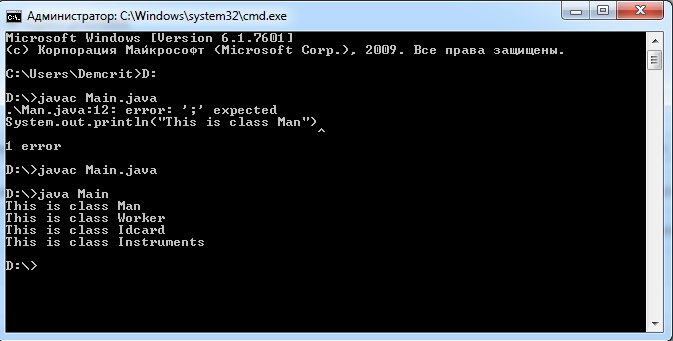
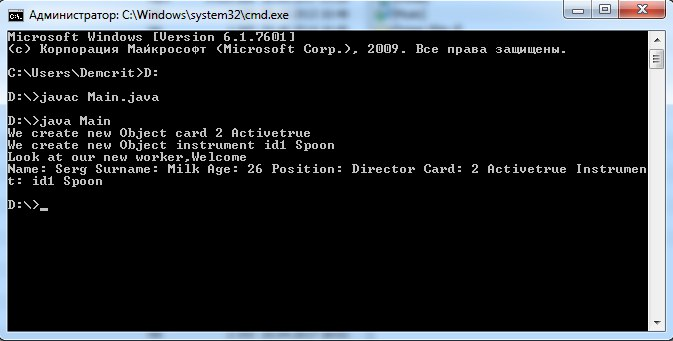
big changes

Changed region(s): [[0.0, 0.0, 1.0, 1.0]]

diff --git a/lection2/Classes/Worker.java b/lection2/Classes/Worker.java
@@ -5,8 +5,12 @@ String position;
 Idcard card;
 Instruments instrument;
 
-public Worker(){
-	System.out.println("This is class Worker");
+public Worker(String name,String surname,int age,String position,
+		Idcard card,Instruments instrument){
+	super(name,surname,age);
+	this.position = position;
+	this.card = card;
+	this.instrument=instrument; 
 	}
 
 public String getPosition() {
@@ -27,4 +31,11 @@ public Instruments getInstrument() {
 public void setInstrument(Instruments instrument) {
 	this.instrument = instrument;
 }
+
+@Override
+public String toString() {
+		return "Name: " + super.name + " Surname: " + super.surname +" Age: "+
+        super.age + " Position: " + this.position +" Card: " + this.card + " Instrument: " + this.instrument;
+}
+
 }

diff --git a/lection2/Classes/Man.java b/lection2/Classes/Man.java
@@ -2,14 +2,15 @@ import java.sql.Date;
 
 public class Man {
 
-private String name;
-private String surname;
-private Date birthdate;
+protected  String name;
+protected  String surname;
+protected  int age;
 
-
-public Man ()
+Man(String name,String surname,int age)
 {
-System.out.println("This is class Man");
+this.name= name;
+this.surname = surname;
+this.age = age;
 }
 
 public String getName(){
@@ -24,10 +25,10 @@ return this.surname;
 public void setsurname(String surname){
 this.surname = surname;
 }
-public Date getbirthdate(){
-return this.birthdate;
+public int getbirthdate(){
+return this.age;
 }
 public void setburthdate(Date birthdate){
-this.birthdate = birthdate;
+this.age = age;
 }
 }

diff --git a/lection2/Classes/Main.java b/lection2/Classes/Main.java
@@ -1,9 +1,13 @@
 public class Main {
 
 	public static void main(String[] args) {
-		Worker worker = new Worker();
-		Idcard idcard = new Idcard();
-		Instruments ins = new Instruments();
+		Idcard idcard = new Idcard(2,true);
+		System.out.println("We create new Object card " + idcard);
+		Instruments ins = new Instruments(1,"Spoon");
+		System.out.println("We create new Object instrument " + ins);
+		Worker worker = new Worker("Serg","Milk",26,"Director",idcard,ins);
+		System.out.println("Look at our new worker,Welcome "+"\n" + worker);
+		
 	}
 
 }

diff --git a/lection2/Classes/Idcard.java b/lection2/Classes/Idcard.java
@@ -1,6 +1,11 @@
 public class Idcard {
     int number;
     boolean active;
+
+     Idcard(int number,boolean active){
+		this.number = number;
+		this.active = active;
+	}
 	public int getNumber() {
 		return number;
 	}
@@ -16,10 +21,12 @@ public class Idcard {
 	public void setActive(boolean active) {
 		this.active = active;
 	}
+	@Override
+	public String toString() {
+		return this.number + " Active"+ this.active; 
 	
-	public Idcard(){
-		System.out.println("This is class Idcard");
-	}
+	
 	
 
+}
 }

diff --git a/lection2/Classes/Instruments.java b/lection2/Classes/Instruments.java
@@ -2,10 +2,10 @@ public class Instruments {
 int number;
 String type;
 
-Instruments(){
-	System.out.println("This is class Instruments");
-	
-}
+public Instruments(int number,String type){
+	this.number = number;
+	this.type = type;
+	}
 
 public int getNumber() {
 	return number;
@@ -22,5 +22,12 @@ public String getType() {
 public void setType(String type) {
 	this.type = type;
 }
+
+@Override
+public String toString() {
+		return "id" +this.number + " " + this.type;
+}
+
+
 
 }
